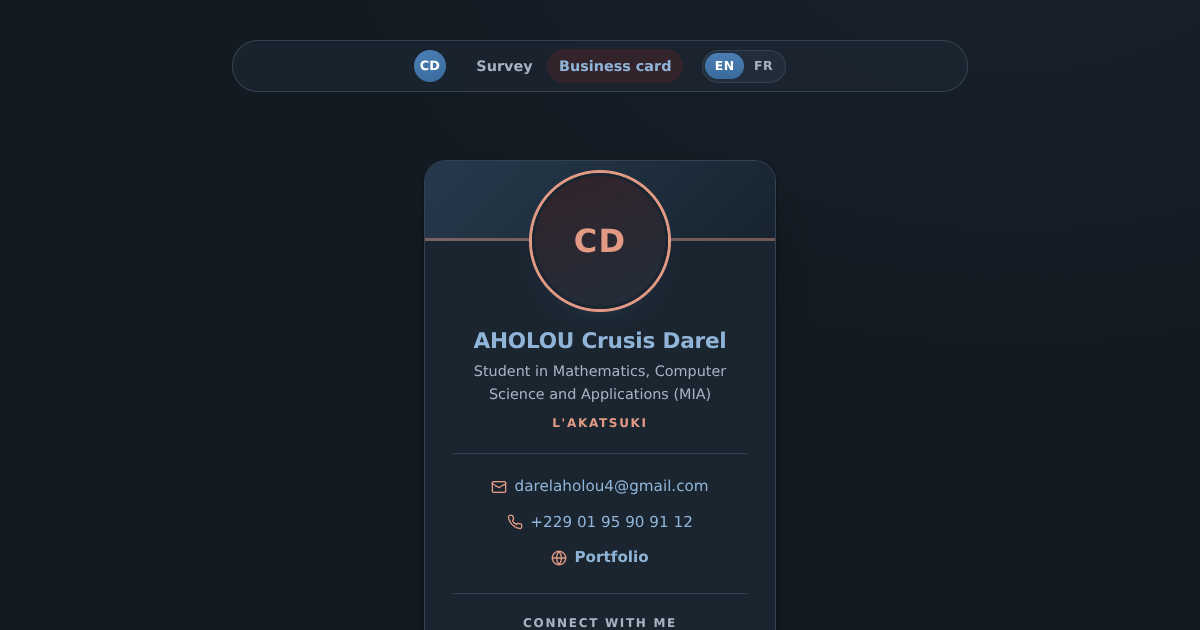
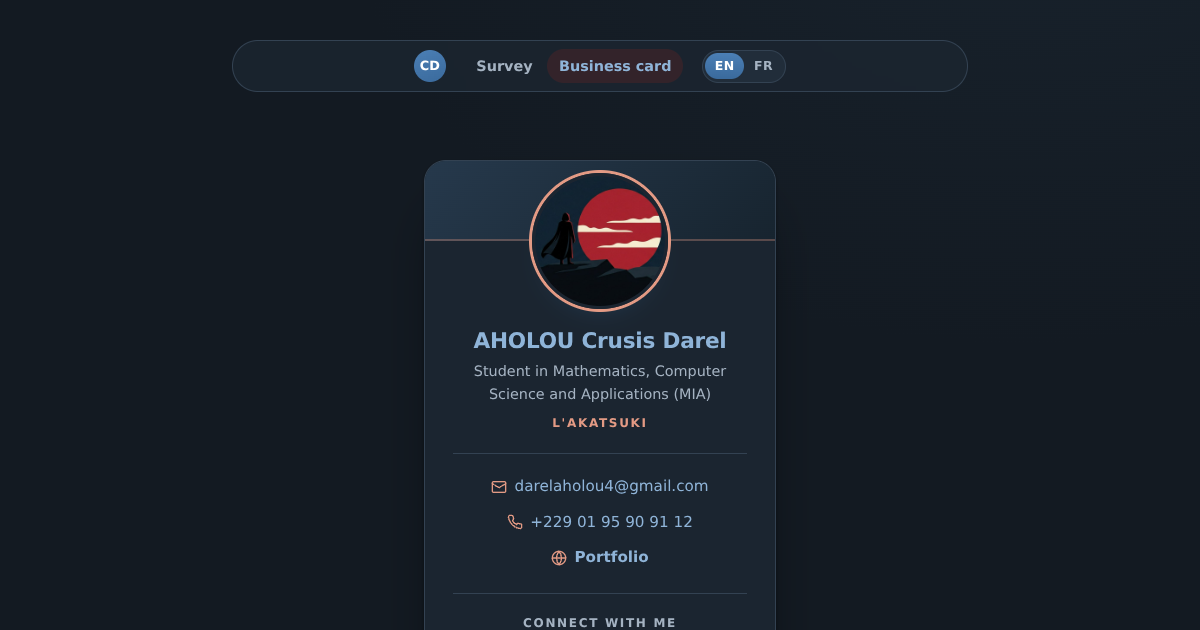
Carte de visite : illustration locale originale à la place de l'image Pinterest

Changed region(s): [[0.37, 0.2714, 0.6475, 0.4825]]

diff --git a/i18n.js b/i18n.js
@@ -78,7 +78,7 @@
 
       /* Carte de visite --------------------------------------------------- */
       "card.designation": "Student in Mathematics, Computer Science and Applications (MIA)",
-      "card.alt": "Illustration of the Akatsuki from Naruto",
+      "card.alt": "Original illustration: a hooded figure facing a red sun at dawn",
       "card.newTab": "(opens in a new tab)",
       "card.portfolio": "Portfolio",
       "card.copyEmail": "Copy email",
@@ -165,7 +165,7 @@
       /* Carte de visite --------------------------------------------------- */
       "card.designation":
         "Étudiant en Mathématiques, Informatique et Applications (MIA)",
-      "card.alt": "Illustration de l'Akatsuki dans Naruto",
+      "card.alt": "Illustration originale : silhouette encapuchonnée face au soleil rouge",
       "card.newTab": "(s'ouvre dans un nouvel onglet)",
       "card.portfolio": "Portfolio",
       "card.copyEmail": "Copier l'e-mail",

diff --git a/business-card.html b/business-card.html
@@ -56,8 +56,8 @@
             <span class="avatar__fallback" aria-hidden="true">CD</span>
             <img
               class="profile-image"
-              src="https://i.pinimg.com/1200x/5d/9a/f3/5d9af313219564759f167f3f7d5145d6.jpg"
-              alt="Illustration of the Akatsuki from Naruto"
+              src="assets/profil.jpg"
+              alt="Original illustration: a hooded figure facing a red sun at dawn"
               data-i18n-alt="card.alt"
               width="300"
               height="300"

diff --git a/business-card.css b/business-card.css
@@ -29,7 +29,7 @@ body {
   height: 5rem;
   margin: 0 calc(-1 * clamp(1.25rem, 5vw, 1.75rem)) 0;
   background: linear-gradient(135deg, var(--banner-from), var(--banner-to));
-  box-shadow: inset 0 -3px 0 color-mix(in srgb, var(--accent) 45%, transparent);
+  box-shadow: inset 0 -2px 0 color-mix(in srgb, var(--accent) 32%, transparent);
 }
 
 .card-header {

diff --git a/README.md b/README.md
@@ -62,7 +62,9 @@ npm test             # structure, traductions, liens, syntaxe JS
   sombre.
 
 **Performance et partage**
-- aucune police, image ou script externe (hors l'illustration de la carte) ;
+- aucune police, image ou script externe : tout est servi depuis le dépôt ;
+- illustration d'en-tête originale et locale (`assets/profil.jpg`) — remplaçable par
+  n'importe quelle photo du même nom ;
 - favicon SVG, manifeste, `theme-color`, `robots.txt`, `sitemap.xml`,
   `.nojekyll` ;
 - balises Open Graph / Twitter avec images d'aperçu dans `assets/`.
